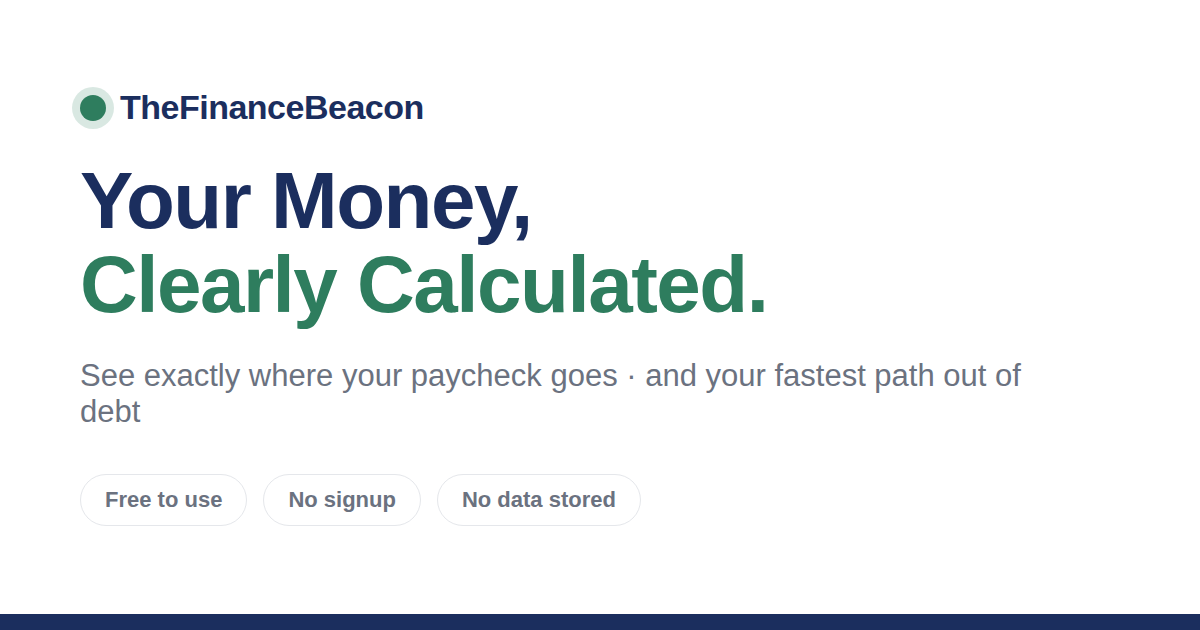
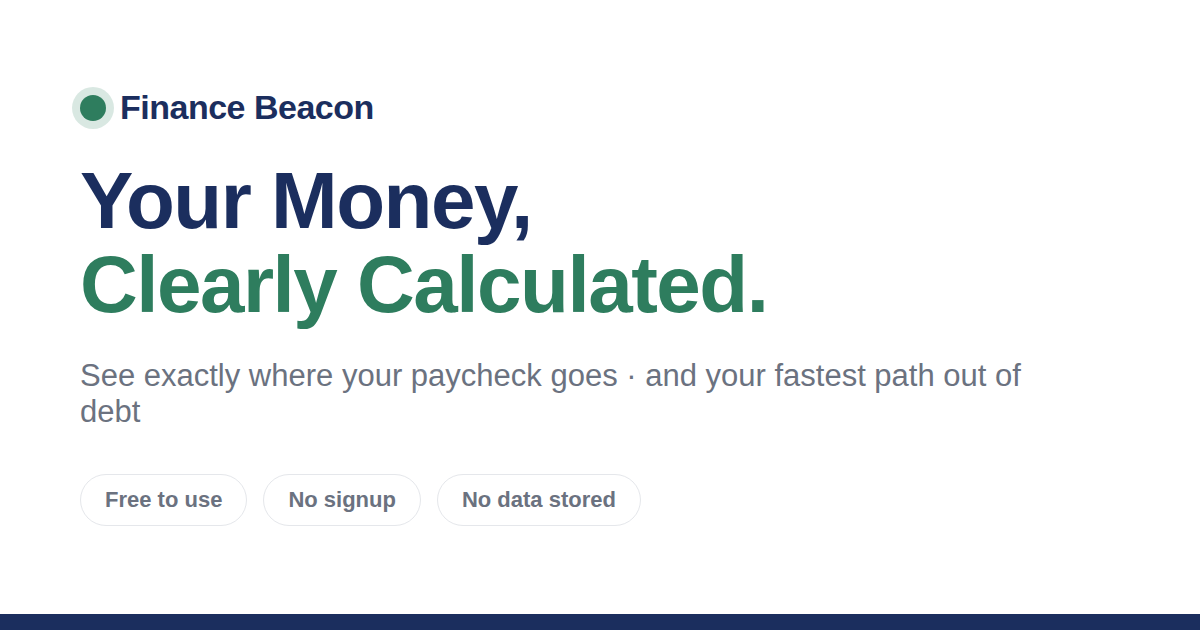
Rename site brand from TheFinanceBeacon to Finance Beacon
Update every occurrence of the site name across the codebase:

- SITE_NAME constant in lib/constants.ts (propagates to Navbar, Footer,
  layout metadata, and every page that interpolates {SITE_NAME}).
- Hardcoded metadata title strings on the homepage, paycheck calculator,
  debt payoff calculator, and About page description that didn't use the
  constant.
- All 12 literal "TheFinanceBeacon" references in the Terms of Use body
  copy, including the two ".com" references (now "Finance Beacon.com").
- README title and intro paragraph.
- Contact form's mailto fallback address (hello@thefinancebeacon.com ->
  hello@financebeacon.com).
- Regenerated public/og-image.png with the new brand name.

Left untouched: the privacy policy's existing "myfinancebeacon.com" domain
references and "Finance Beacon" entity name, which were already correct
from the original Termly export and don't contain the old name.

Verified across all 7 pages (nav brand, page title, footer copyright, body
copy) that no "TheFinanceBeacon" references remain.

Claude-Session: https://claude.ai/code/session_01AQ9hjQADpTD1ZQPT8ZBSPZ

Changed region(s): [[0.0925, 0.1508, 0.37, 0.2111]]

diff --git a/app/terms/page.tsx b/app/terms/page.tsx
@@ -21,8 +21,8 @@ const SECTIONS: Section[] = [
     heading: 'Welcome',
     body: (
       <>
-        Welcome to TheFinanceBeacon. These Terms of Use govern your access to
-        and use of TheFinanceBeacon.com and its financial calculators. By
+        Welcome to Finance Beacon. These Terms of Use govern your access to
+        and use of Finance Beacon.com and its financial calculators. By
         using this website, you agree to these Terms.
       </>
     ),
@@ -31,7 +31,7 @@ const SECTIONS: Section[] = [
     heading: 'Use of the Website',
     body: (
       <>
-        TheFinanceBeacon provides free financial calculators and
+        Finance Beacon provides free financial calculators and
         informational tools for personal use. You agree to use this website
         only for lawful purposes and in a manner consistent with these Terms.
       </>
@@ -41,7 +41,7 @@ const SECTIONS: Section[] = [
     heading: 'Calculator Results',
     body: (
       <>
-        The calculators on TheFinanceBeacon are designed to provide estimates
+        The calculators on Finance Beacon are designed to provide estimates
         based on the information you enter. Although we strive for accuracy,
         results are estimates only and may vary due to changes in tax laws,
         financial regulations, interest rate assumptions, rounding
@@ -66,7 +66,7 @@ const SECTIONS: Section[] = [
     heading: 'No Professional Advice',
     body: (
       <>
-        TheFinanceBeacon does not provide financial, tax, legal, accounting,
+        Finance Beacon does not provide financial, tax, legal, accounting,
         or investment advice. All content on this website is intended for
         informational and educational purposes only. Always consult a
         qualified professional regarding your individual financial situation
@@ -78,7 +78,7 @@ const SECTIONS: Section[] = [
     heading: 'No Warranty',
     body: (
       <>
-        TheFinanceBeacon is provided &ldquo;as is&rdquo; and &ldquo;as
+        Finance Beacon is provided &ldquo;as is&rdquo; and &ldquo;as
         available&rdquo; without warranties of any kind, express or implied,
         including but not limited to implied warranties of merchantability,
         fitness for a particular purpose, or non-infringement. We do not
@@ -91,7 +91,7 @@ const SECTIONS: Section[] = [
     heading: 'Limitation of Liability',
     body: (
       <>
-        To the fullest extent permitted by law, TheFinanceBeacon and its
+        To the fullest extent permitted by law, Finance Beacon and its
         owner shall not be liable for any direct, indirect, incidental,
         consequential, special, or punitive damages arising from your use of
         — or inability to use — this website or any reliance on calculator
@@ -103,9 +103,9 @@ const SECTIONS: Section[] = [
     heading: 'Intellectual Property',
     body: (
       <>
-        Unless otherwise noted, all content on TheFinanceBeacon — including
+        Unless otherwise noted, all content on Finance Beacon — including
         text, design, graphics, logos, and software — is the property of
-        TheFinanceBeacon and may not be copied, reproduced, or distributed
+        Finance Beacon and may not be copied, reproduced, or distributed
         without written permission.
       </>
     ),
@@ -125,10 +125,10 @@ const SECTIONS: Section[] = [
     heading: 'Advertising',
     body: (
       <>
-        TheFinanceBeacon may display advertisements through Google AdSense or
+        Finance Beacon may display advertisements through Google AdSense or
         other advertising providers. Advertisements are served by third
         parties and do not constitute endorsements or recommendations by
-        TheFinanceBeacon.
+        Finance Beacon.
       </>
     ),
   },
@@ -180,7 +180,7 @@ const SECTIONS: Section[] = [
     body: (
       <>
         Questions about these Terms may be directed to us via our contact
-        page: theFinanceBeacon.com/contact
+        page: Finance Beacon.com/contact
       </>
     ),
   },

diff --git a/app/about/page.tsx b/app/about/page.tsx
@@ -5,12 +5,12 @@ import { SITE_NAME, SITE_URL } from '@/lib/constants'
 export const metadata: Metadata = {
   title: 'About',
   description:
-    'TheFinanceBeacon is a free personal finance website that helps you make informed financial decisions with simple, accurate calculators. No account required, and your data is never stored.',
+    'Finance Beacon is a free personal finance website that helps you make informed financial decisions with simple, accurate calculators. No account required, and your data is never stored.',
   alternates: { canonical: `${SITE_URL}/about` },
   openGraph: {
     title: `About | ${SITE_NAME}`,
     description:
-      'TheFinanceBeacon is a free personal finance website that helps you make informed financial decisions with simple, accurate calculators. No account required, and your data is never stored.',
+      'Finance Beacon is a free personal finance website that helps you make informed financial decisions with simple, accurate calculators. No account required, and your data is never stored.',
     url: `${SITE_URL}/about`,
     siteName: SITE_NAME,
     images: ['/og-image.png'],

diff --git a/app/page.tsx b/app/page.tsx
@@ -4,12 +4,12 @@ import { TrendingDown, Wallet, Check, Rocket } from 'lucide-react'
 import { SITE_NAME, SITE_URL } from '@/lib/constants'
 
 export const metadata: Metadata = {
-  title: 'Your Money, Clearly Calculated | TheFinanceBeacon',
+  title: 'Your Money, Clearly Calculated | Finance Beacon',
   description:
     'Free tools that show you exactly where your paycheck goes — and exactly how fast you can get out of debt. No signup, no data stored.',
   alternates: { canonical: SITE_URL },
   openGraph: {
-    title: 'Your Money, Clearly Calculated | TheFinanceBeacon',
+    title: 'Your Money, Clearly Calculated | Finance Beacon',
     description:
       'Free tools that show you exactly where your paycheck goes — and exactly how fast you can get out of debt. No signup, no data stored.',
     url: SITE_URL,

diff --git a/app/paycheck-calculator/page.tsx b/app/paycheck-calculator/page.tsx
@@ -6,7 +6,7 @@ import FAQAccordion, { type FAQItem } from '@/components/shared/FAQAccordion'
 import { SITE_NAME, SITE_URL } from '@/lib/constants'
 
 const TITLE =
-  'Paycheck Calculator — Calculate Your Take-Home Pay | TheFinanceBeacon'
+  'Paycheck Calculator — Calculate Your Take-Home Pay | Finance Beacon'
 const DESCRIPTION =
   'Free paycheck calculator. Enter your salary, state, and deductions to see exactly what hits your bank account after federal tax, state tax, and FICA.'
 const URL = `${SITE_URL}/paycheck-calculator`

diff --git a/app/debt-payoff-calculator/page.tsx b/app/debt-payoff-calculator/page.tsx
@@ -6,7 +6,7 @@ import FAQAccordion, { type FAQItem } from '@/components/shared/FAQAccordion'
 import { SITE_NAME, SITE_URL } from '@/lib/constants'
 
 const TITLE =
-  'Debt Payoff Calculator — Avalanche vs Snowball | TheFinanceBeacon'
+  'Debt Payoff Calculator — Avalanche vs Snowball | Finance Beacon'
 const DESCRIPTION =
   'Free debt payoff calculator. Compare the avalanche and snowball methods side by side. See your debt-free date and total interest paid in seconds.'
 const URL = `${SITE_URL}/debt-payoff-calculator`

diff --git a/components/ContactForm.tsx b/components/ContactForm.tsx
@@ -61,7 +61,7 @@ export default function ContactForm() {
     if (!FORMSPREE_ENDPOINT) {
       const subject = encodeURIComponent(`Message from ${name}`)
       const body = encodeURIComponent(`${message}\n\n— ${name} (${email})`)
-      window.location.href = `mailto:hello@thefinancebeacon.com?subject=${subject}&body=${body}`
+      window.location.href = `mailto:hello@financebeacon.com?subject=${subject}&body=${body}`
       setStatus('success')
       resetForm()
       return

diff --git a/lib/constants.ts b/lib/constants.ts
@@ -1,4 +1,4 @@
-export const SITE_NAME = 'TheFinanceBeacon'
+export const SITE_NAME = 'Finance Beacon'
 
 export const SITE_TAGLINE = 'Your Money, Clearly Calculated.'
 

diff --git a/README.md b/README.md
@@ -1,8 +1,8 @@
-# TheFinanceBeacon
+# Finance Beacon
 
 Your money, clearly calculated.
 
-TheFinanceBeacon is a pure client-side tool site — no accounts, no database, no
+Finance Beacon is a pure client-side tool site — no accounts, no database, no
 backend. Every calculation runs in the browser; your numbers never leave your
 device.
 
